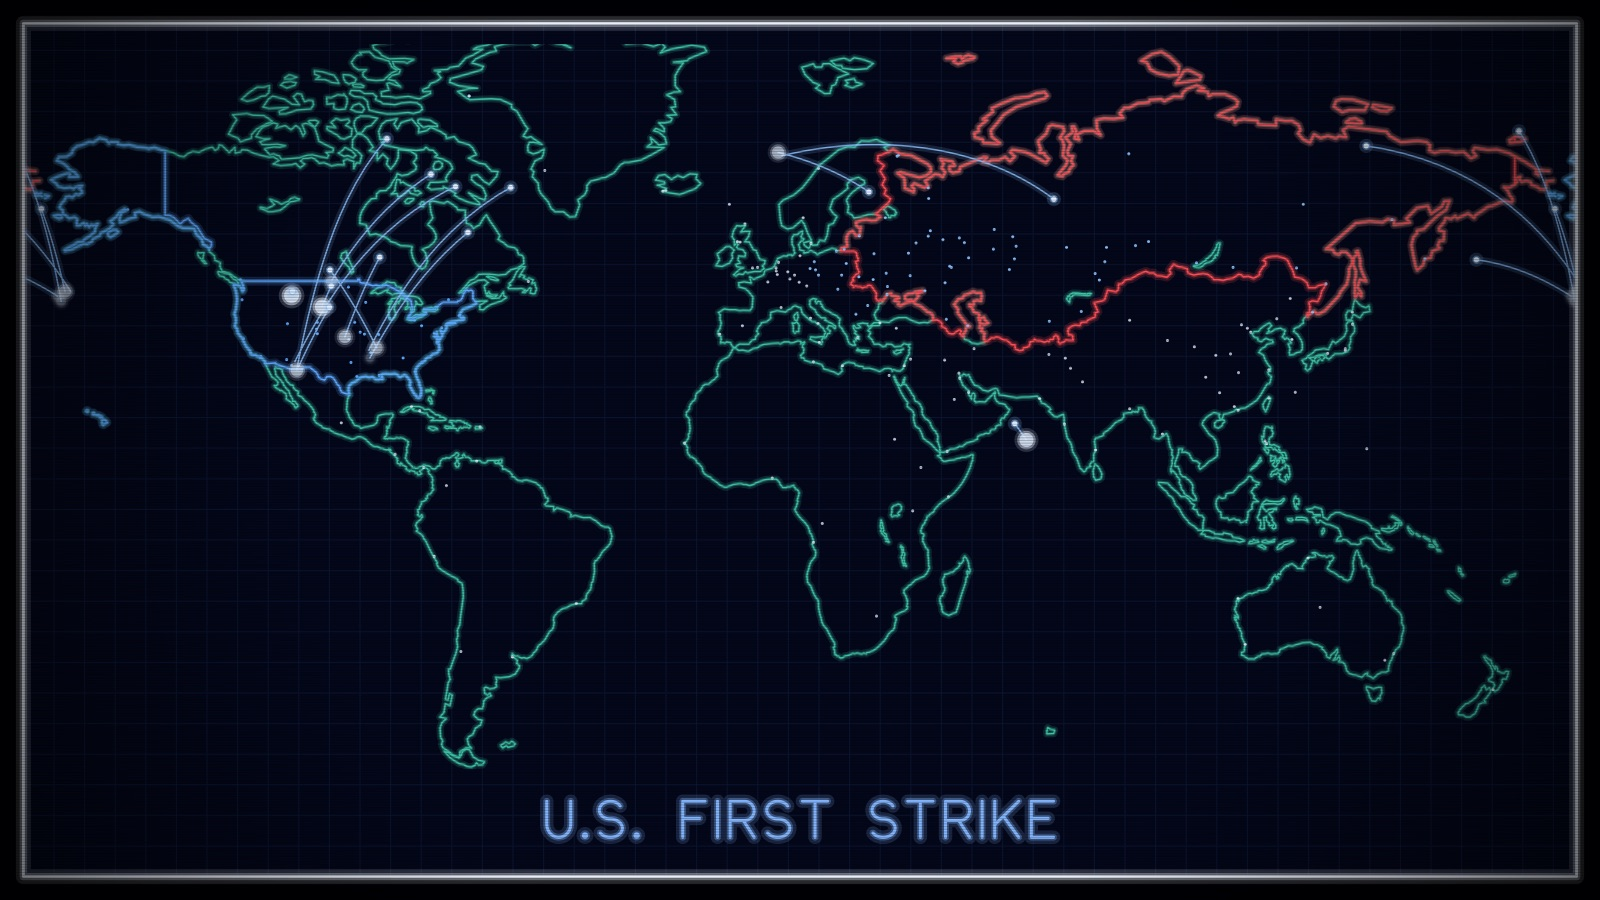
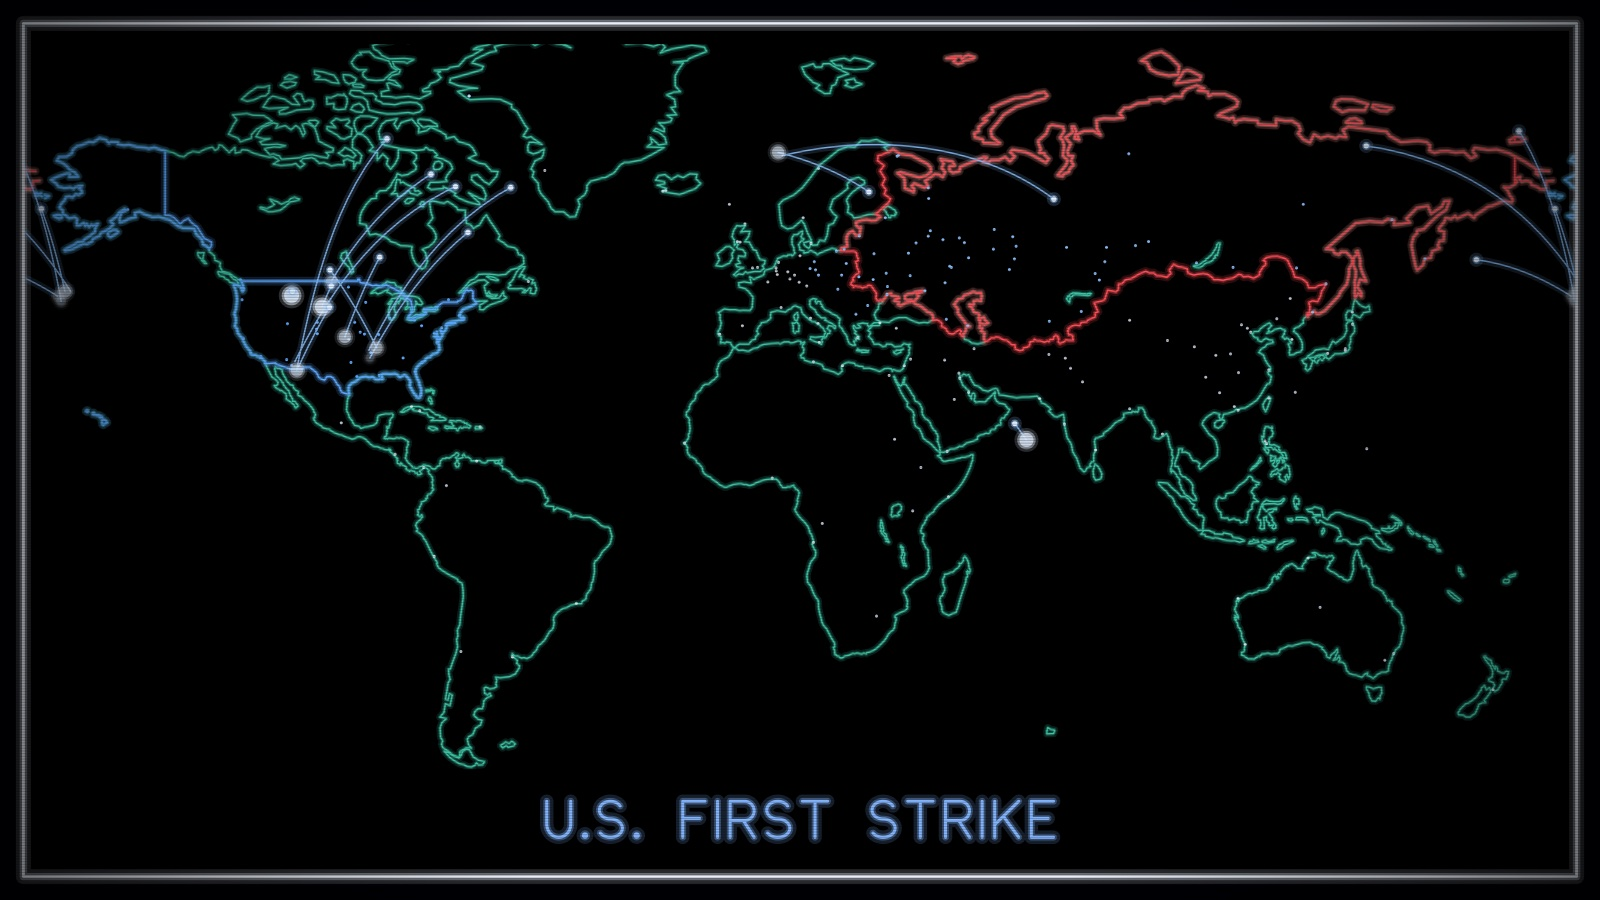
Use solid black screens with no grid
Replace the dark-navy screen glass and faint grid with plain black on
every screen: big-board map, wall of screens, launch code, strategy
table and tic-tac-toe. The white bezels stay. README screenshots and
description updated to match.

diff --git a/Sources/TicTacToeScene.swift b/Sources/TicTacToeScene.swift
@@ -198,12 +198,8 @@ final class TicTacToeScene: WOPRScene {
 
     func draw(_ rc: RenderContext, t: Double) {
         let ctx = rc.ctx, u = rc.u, W = rc.size.width, H = rc.size.height
-        // The film plays tic-tac-toe on the big-board screens: white vector strokes on dark navy.
-        Director.provideStatic(rc, key: "ttt") { src in
-            let m = 26 * src.u
-            let screen = CGRect(x: m, y: m, width: src.size.width - 2 * m, height: src.size.height - 2 * m)
-            BoardArt.drawScreens(src, [Viewport(screen: screen, map: MapFrame(rect: .zero), blank: true, zoom: 1)], neighbors: false)
-        }
+        // White vector strokes on a solid black background (no static screen art, so the
+        // black root layer shows through).
         let area = CGRect(x: 70 * u, y: 70 * u, width: W - 140 * u, height: H - 70 * u - 150 * u)
 
         // Header + counter
@@ -274,7 +270,7 @@ final class TicTacToeScene: WOPRScene {
             let size = 80 * u
             let tw = VectorFont.width("WINNER: NONE", size: size)
             let box = CGRect(x: W / 2 - tw / 2 - 50 * u, y: H / 2 - size * 0.9, width: tw + 100 * u, height: size * 1.8)
-            ctx.setFillColor(Theme.with(Theme.screen, alpha: 0.88 * a))
+            ctx.setFillColor(CGColor(gray: 0, alpha: a))
             ctx.fill(box)
             let border = CGPath(rect: box, transform: nil)
             Draw.glowStroke(ctx, border, color: Theme.frame, width: max(3 * u, 0.6), glow: 2, alpha: a)

diff --git a/Sources/WorldMap.swift b/Sources/WorldMap.swift
@@ -156,7 +156,6 @@ enum BoardArt {
             ctx.clip(to: vp.screen)
             ctx.setFillColor(Theme.screen)
             ctx.fill(vp.screen)
-            drawGrid(ctx, vp.screen, step: 34 * u, u: u)
             if !vp.blank { drawMap(rc, vp) }
             ctx.restoreGState()
             drawBezel(ctx, vp.screen, u: u)
@@ -181,17 +180,6 @@ enum BoardArt {
         if !p.isEmpty { Draw.glowStroke(rc.ctx, p, color: Theme.frame, width: max(1, 3 * u), glow: 2.4, alpha: 0.75) }
     }
 
-    static func drawGrid(_ ctx: CGContext, _ r: CGRect, step: CGFloat, u: CGFloat) {
-        let g = CGMutablePath()
-        var x = r.minX + step
-        while x < r.maxX { g.move(to: CGPoint(x: x, y: r.minY)); g.addLine(to: CGPoint(x: x, y: r.maxY)); x += step }
-        var y = r.minY + step
-        while y < r.maxY { g.move(to: CGPoint(x: r.minX, y: y)); g.addLine(to: CGPoint(x: r.maxX, y: y)); y += step }
-        ctx.addPath(g)
-        ctx.setStrokeColor(Theme.grid)
-        ctx.setLineWidth(max(0.5, 1.0 * u))
-        ctx.strokePath()
-    }
 
     static func drawMap(_ rc: RenderContext, _ vp: Viewport) {
         let ctx = rc.ctx, u = rc.u

diff --git a/Sources/Core.swift b/Sources/Core.swift
@@ -46,8 +46,7 @@ enum Theme {
 
     // Film big-board palette (sampled from the NORAD screens in the reference clip).
     /// Screen interior: very dark navy.
-    static let screen = CGColor(red: 0.015, green: 0.03, blue: 0.08, alpha: 1)
-    static let grid = CGColor(red: 0.10, green: 0.17, blue: 0.38, alpha: 0.30)
+    static let screen = CGColor(gray: 0, alpha: 1)
     /// Non-aligned coastlines.
     static let teal = CGColor(red: 0.22, green: 0.78, blue: 0.62, alpha: 1)
     static let usBlue = CGColor(red: 0.30, green: 0.58, blue: 1.0, alpha: 1)

diff --git a/Sources/BoardScenes.swift b/Sources/BoardScenes.swift
@@ -14,7 +14,6 @@ private func drawBoardBackground(_ rc: RenderContext, key: String) {
         let s = boardScreen(src)
         src.ctx.setFillColor(Theme.screen)
         src.ctx.fill(s)
-        BoardArt.drawGrid(src.ctx, s, step: 34 * src.u, u: src.u)
         BoardArt.drawBezel(src.ctx, s, u: src.u)
         BoardArt.drawNeighborBezels(src, around: s)
     }

diff --git a/README.md b/README.md
@@ -91,8 +91,7 @@ open "build/WOPR Preview.app"
 The visuals were matched frame by frame against the film's NORAD big‑board
 footage:
 
-- **Screens:** rear‑projection screens with a white bezel, dark‑navy glass and
-  a faint grid.
+- **Screens:** rear‑projection screens with a white bezel on solid black.
 - **Map:** the United States outlined in blue, the USSR in red (its 15
   republics merged into one outline), and the rest of the world in teal.
   Target dots are pre‑plotted.
